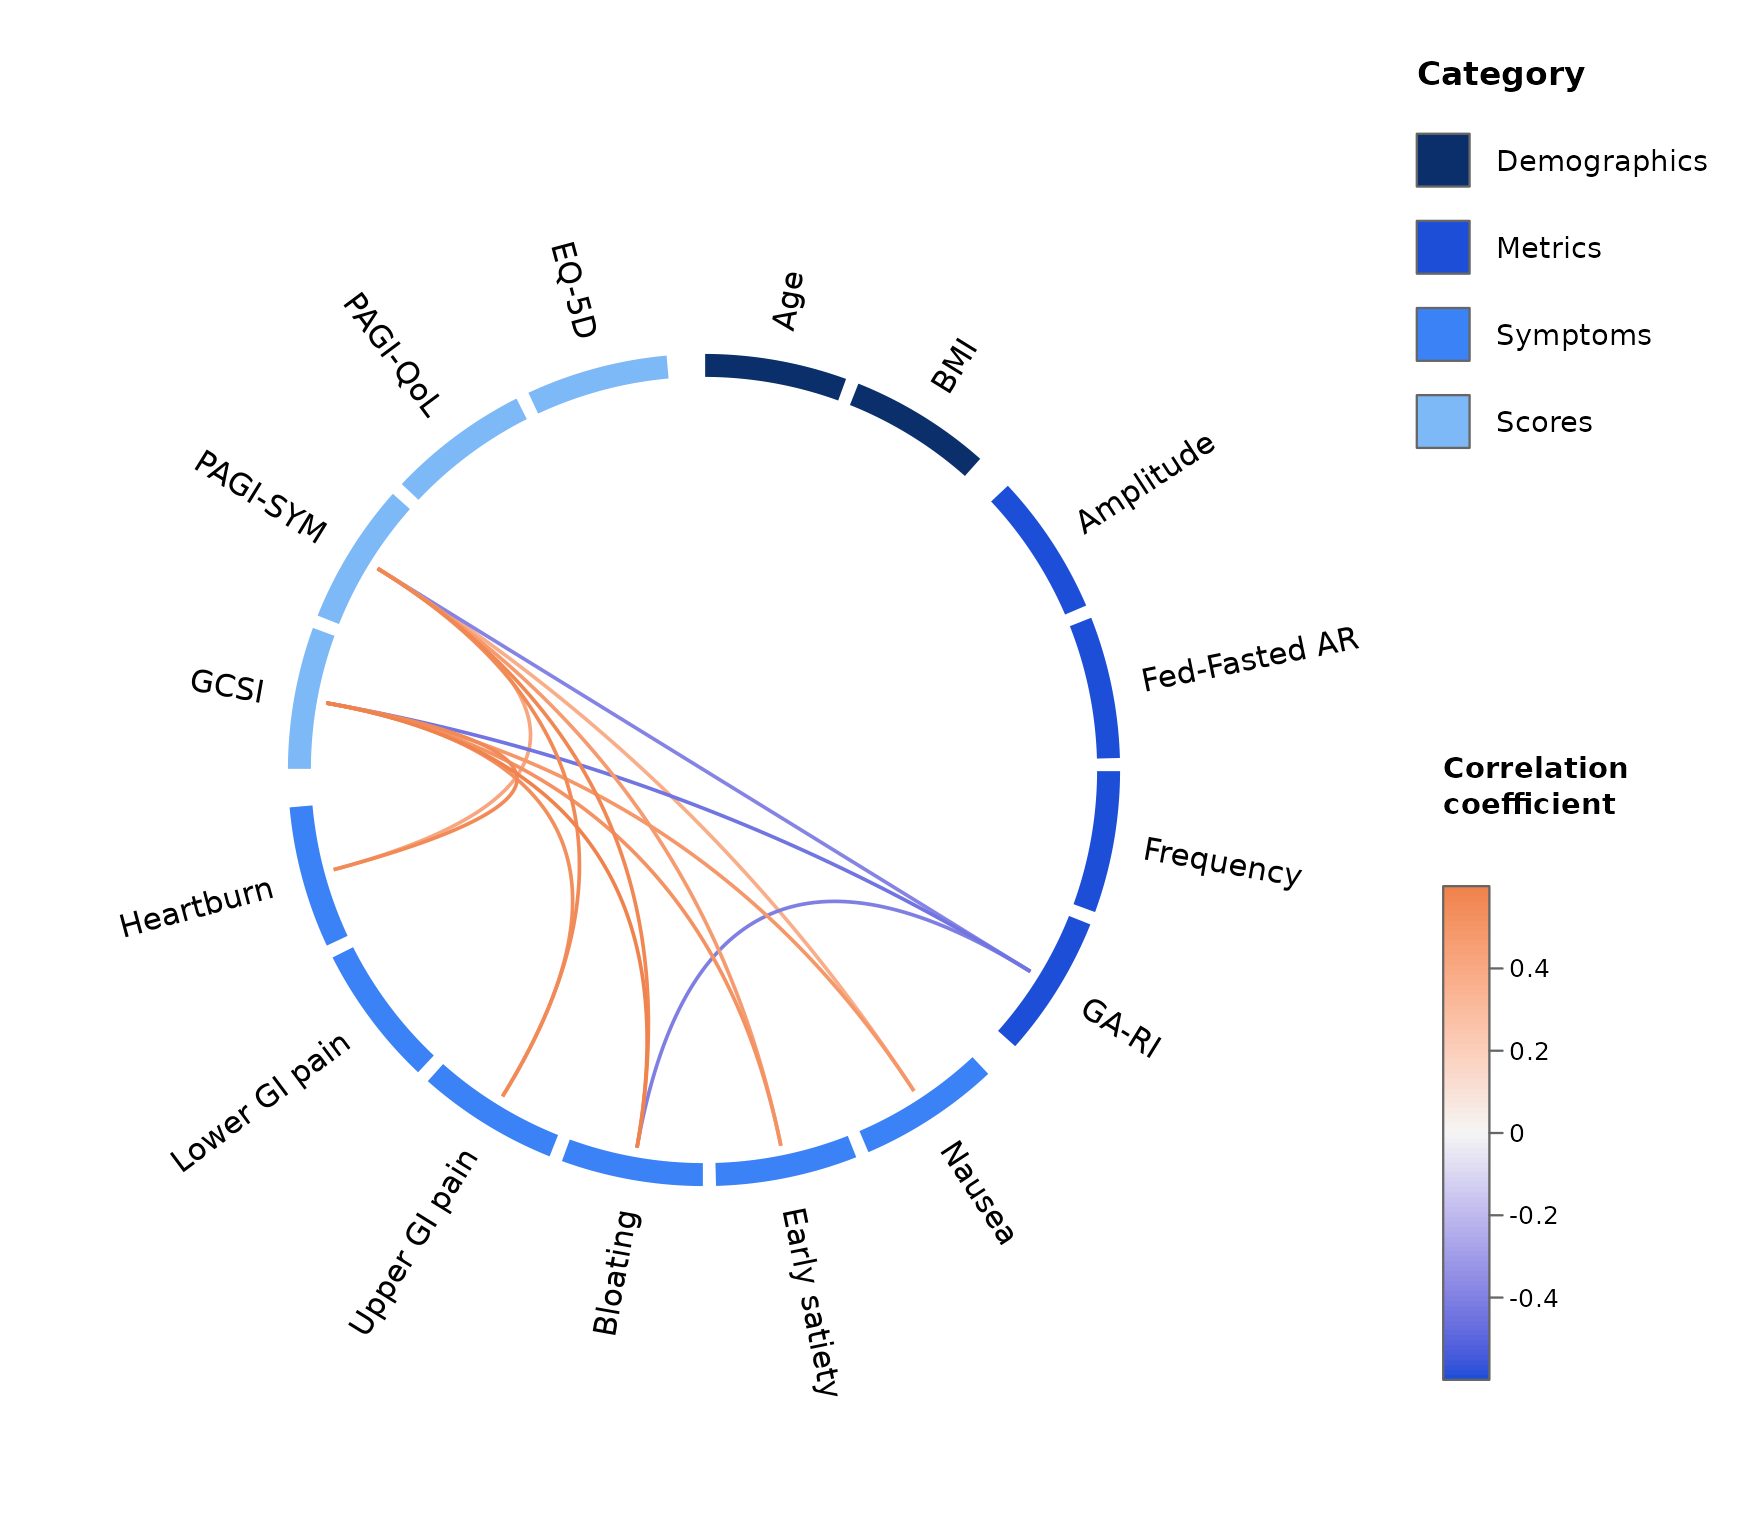
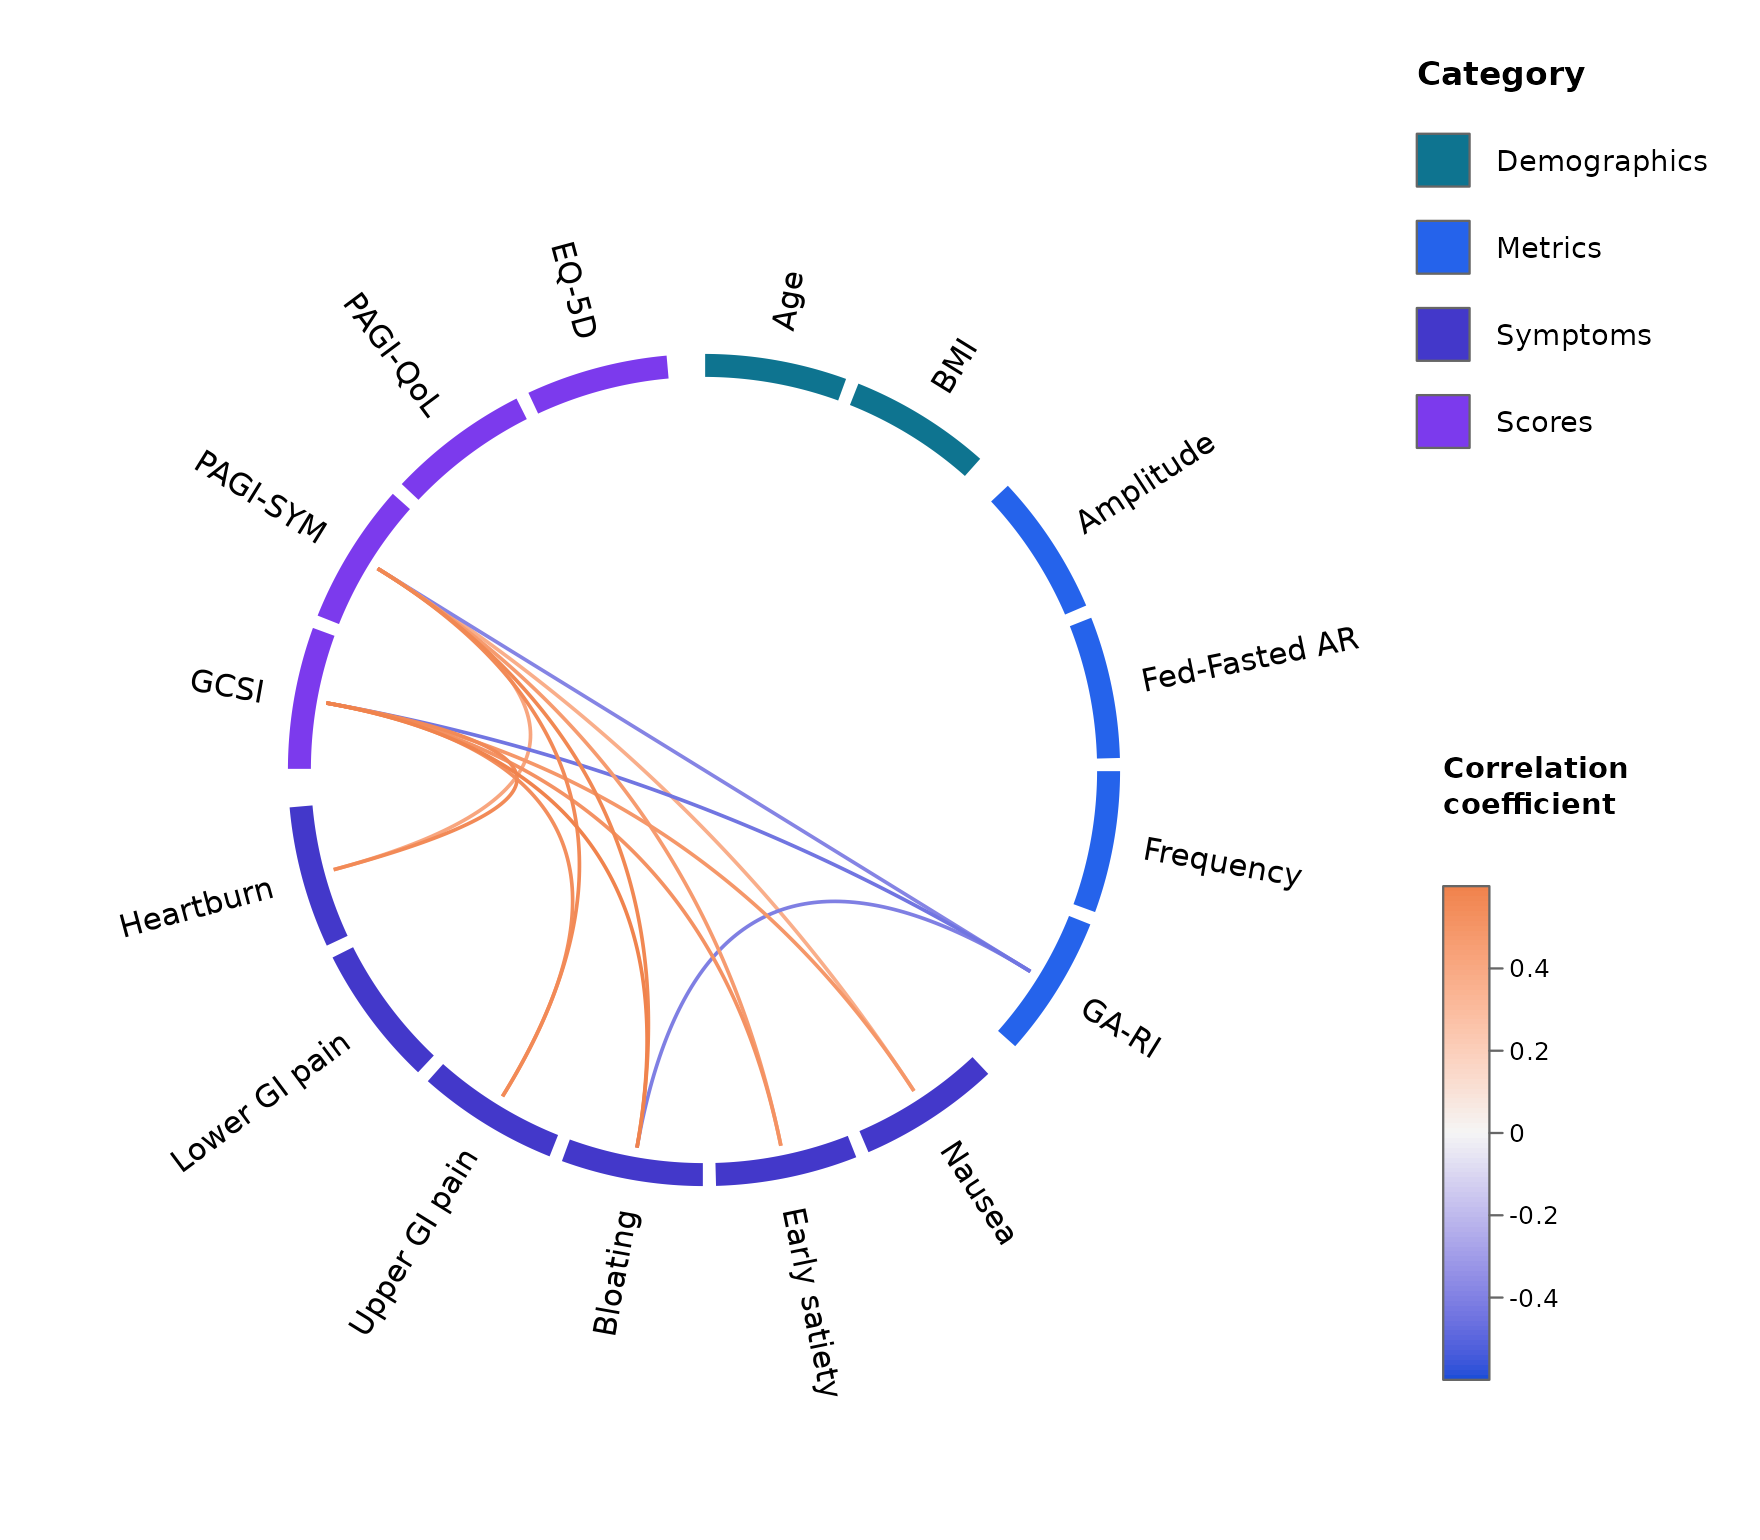
Deploying to gh-pages from @ kriz98/circlecorR@af7936f285e63a9e8a62ccbc948599f979afb8fc 🚀

diff --git a/articles/circlecorR.html b/articles/circlecorR.html
@@ -207,7 +207,7 @@ palette together, as one named preset. Built-in options are listed by
 <code><a href="../reference/corr_wheel_schemes.html">corr_wheel_schemes()</a></code>:</p>
 <div class="sourceCode" id="cb8"><pre class="downlit sourceCode r">
 <code class="sourceCode R"><span><span class="fu"><a href="../reference/corr_wheel_schemes.html">corr_wheel_schemes</a></span><span class="op">(</span><span class="op">)</span></span>
-<span><span class="co">#&gt; [1] "default"    "colorblind" "mono_blue"  "vivid"</span></span></code></pre></div>
+<span><span class="co">#&gt; [1] "default"    "colorblind" "ocean"      "vivid"</span></span></code></pre></div>
 <div class="sourceCode" id="cb9"><pre class="downlit sourceCode r">
 <code class="sourceCode R"><span><span class="fu"><a href="../reference/corr_wheel.html">corr_wheel</a></span><span class="op">(</span><span class="va">gastro_symptoms</span>, groups <span class="op">=</span> <span class="va">groups</span>, r_threshold <span class="op">=</span> <span class="fl">0.3</span>,</span>
 <span>          r_limits <span class="op">=</span> <span class="fu"><a href="https://rdrr.io/r/base/c.html" class="external-link">c</a></span><span class="op">(</span><span class="op">-</span><span class="fl">0.6</span>, <span class="fl">0.6</span><span class="op">)</span>, scheme <span class="op">=</span> <span class="st">"colorblind"</span><span class="op">)</span></span></code></pre></div>
@@ -216,7 +216,7 @@ palette together, as one named preset. Built-in options are listed by
 can start from a preset and tweak it – here, lightening the midpoint of
 the diverging scale:</p>
 <div class="sourceCode" id="cb10"><pre class="downlit sourceCode r">
-<code class="sourceCode R"><span><span class="va">s</span> <span class="op">&lt;-</span> <span class="fu"><a href="../reference/corr_wheel_scheme.html">corr_wheel_scheme</a></span><span class="op">(</span><span class="st">"mono_blue"</span><span class="op">)</span></span>
+<code class="sourceCode R"><span><span class="va">s</span> <span class="op">&lt;-</span> <span class="fu"><a href="../reference/corr_wheel_scheme.html">corr_wheel_scheme</a></span><span class="op">(</span><span class="st">"ocean"</span><span class="op">)</span></span>
 <span><span class="va">s</span><span class="op">$</span><span class="va">palette</span><span class="op">[</span><span class="fl">2</span><span class="op">]</span> <span class="op">&lt;-</span> <span class="st">"grey96"</span></span>
 <span><span class="fu"><a href="../reference/corr_wheel.html">corr_wheel</a></span><span class="op">(</span><span class="va">gastro_symptoms</span>, groups <span class="op">=</span> <span class="va">groups</span>, r_threshold <span class="op">=</span> <span class="fl">0.3</span>,</span>
 <span>          r_limits <span class="op">=</span> <span class="fu"><a href="https://rdrr.io/r/base/c.html" class="external-link">c</a></span><span class="op">(</span><span class="op">-</span><span class="fl">0.6</span>, <span class="fl">0.6</span><span class="op">)</span>, scheme <span class="op">=</span> <span class="va">s</span><span class="op">)</span></span></code></pre></div>

diff --git a/index.html b/index.html
@@ -141,7 +141,7 @@
 <td>Colour scheme (category colours + link palette, together)</td>
 <td><code>scheme</code></td>
 <td>
-<code>"colorblind"</code>, <code>"mono_blue"</code>, <code>"vivid"</code>, or <code>list(colors=, palette=)</code>
+<code>"colorblind"</code>, <code>"ocean"</code>, <code>"vivid"</code>, or <code>list(colors=, palette=)</code>
 </td>
 </tr>
 <tr>

diff --git a/reference/corr_wheel.html b/reference/corr_wheel.html
@@ -117,7 +117,7 @@ variables share one group.</p></dd>
 <dd><p>A colour scheme providing the base category colours and
 diverging link palette together. One of:</p><ul><li><p><code>NULL</code> (default) – use the package default scheme;</p></li>
 <li><p>a built-in scheme name, see <code><a href="corr_wheel_schemes.html">corr_wheel_schemes()</a></code> (e.g. <code>"colorblind"</code>,
-<code>"mono_blue"</code>, <code>"vivid"</code>);</p></li>
+<code>"ocean"</code>, <code>"vivid"</code>);</p></li>
 <li><p>a custom <code>list(colors = , palette = )</code>, as returned by
 <code><a href="corr_wheel_scheme.html">corr_wheel_scheme()</a></code> (optionally tweaked).</p></li>
 </ul><p><code>colors</code> and <code>palette</code> (below), if supplied, override the scheme's

diff --git a/reference/corr_wheel_schemes.html b/reference/corr_wheel_schemes.html
@@ -54,7 +54,7 @@ as the <code>scheme</code> argument of <code><a href="corr_wheel.html">corr_whee
     <div class="section level2">
     <h2 id="ref-examples">Examples<a class="anchor" aria-label="anchor" href="#ref-examples"></a></h2>
     <div class="sourceCode"><pre class="sourceCode r"><code><span class="r-in"><span><span class="fu">corr_wheel_schemes</span><span class="op">(</span><span class="op">)</span></span></span>
-<span class="r-out co"><span class="r-pr">#&gt;</span> [1] "default"    "colorblind" "mono_blue"  "vivid"     </span>
+<span class="r-out co"><span class="r-pr">#&gt;</span> [1] "default"    "colorblind" "ocean"      "vivid"     </span>
 </code></pre></div>
     </div>
   </main><aside class="col-md-3"><nav id="toc" aria-label="Table of contents"><h2>On this page</h2>

diff --git a/articles/circlecorR.md b/articles/circlecorR.md
@@ -159,7 +159,7 @@ together, as one named preset. Built-in options are listed by
 ``` r
 
 corr_wheel_schemes()
-#> [1] "default"    "colorblind" "mono_blue"  "vivid"
+#> [1] "default"    "colorblind" "ocean"      "vivid"
 ```
 
 ``` r
@@ -176,7 +176,7 @@ it – here, lightening the midpoint of the diverging scale:
 
 ``` r
 
-s <- corr_wheel_scheme("mono_blue")
+s <- corr_wheel_scheme("ocean")
 s$palette[2] <- "grey96"
 corr_wheel(gastro_symptoms, groups = groups, r_threshold = 0.3,
           r_limits = c(-0.6, 0.6), scheme = s)

diff --git a/index.md b/index.md
@@ -106,7 +106,7 @@ Everything the reference figure controls is a plain argument:
 | What | Argument | Example |
 |----|----|----|
 | Category assignment & order | `groups` | named list *or* `variable = category` vector |
-| Colour scheme (category colours + link palette, together) | `scheme` | `"colorblind"`, `"mono_blue"`, `"vivid"`, or `list(colors=, palette=)` |
+| Colour scheme (category colours + link palette, together) | `scheme` | `"colorblind"`, `"ocean"`, `"vivid"`, or `list(colors=, palette=)` |
 | Category colours | `colors` | `c(Symptoms = "#55A868", Scores = "#C44E52")` (overrides `scheme` per category) |
 | Pretty variable labels | `labels` | `c(`GA-RI`= "Rhythm index")` |
 | Significance cutoff | `sig_level` | `0.05` |

diff --git a/reference/corr_wheel.md b/reference/corr_wheel.md
@@ -89,7 +89,7 @@ corr_wheel(
 
   - a built-in scheme name, see
     [`corr_wheel_schemes()`](https://kriz98.github.io/circlecorR/reference/corr_wheel_schemes.md)
-    (e.g. `"colorblind"`, `"mono_blue"`, `"vivid"`);
+    (e.g. `"colorblind"`, `"ocean"`, `"vivid"`);
 
   - a custom `list(colors = , palette = )`, as returned by
     [`corr_wheel_scheme()`](https://kriz98.github.io/circlecorR/reference/corr_wheel_scheme.md)

diff --git a/reference/corr_wheel_schemes.md b/reference/corr_wheel_schemes.md
@@ -23,5 +23,5 @@ A character vector of scheme names.
 
 ``` r
 corr_wheel_schemes()
-#> [1] "default"    "colorblind" "mono_blue"  "vivid"     
+#> [1] "default"    "colorblind" "ocean"      "vivid"     
 ```